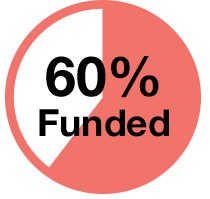
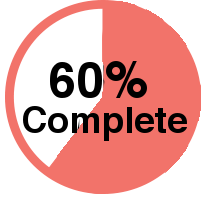
project-page styles

diff --git a/website/templates/includes/project-pane.html b/website/templates/includes/project-pane.html
@@ -1,8 +1,7 @@
 <style>
     .project-container {
-        background: #fff;
         margin-bottom: 30px;
-        height: 277px;
+        height: 495px;
         box-shadow: 1px 2px 3px #808080;
         -moz-box-shadow: 1px 2px 3px #808080;
         -webkit-box-shadow: 1px 2px 3px #808080;
@@ -18,17 +17,24 @@
         overflow: hidden;        
         position: relative;
     }
+    .project-image img{
+        height: 168px;
+        width: 300px;
+    }
+    
+    .project-cause {
+        margin: 10px 0px 0px 5px;
+        font-weight: bold;
+        color: #4E7284;
+    }
+    
     .project-text {
         width: 100%;
-        height: 277px;
-        background-color: rgba(0,0,0,.55);
-        color: #ffffff;
     }
     .project-name {
-        height:75px;
+        height:60px;
         font-family: 'Raleway', sans-serif;
         text-align: center;
-        color:#ffffff;
         padding-top: 10px;
         font-size: 2.2em;
         line-height: 1em;
@@ -44,65 +50,54 @@
         text-align: center;
     }
     
-    .project-text .org-bar {
-        margin: 5px auto 0px;
-        width: 250px;
+    .project-status {
+        margin-top: 10px;
     }
-    .project-text .org-bar a{
+
+    .project-status .pie-chart{
         margin-left: 5px;
-        color: #6dcff6;
-    }
-    
-    .project-text .row-fluid [class*="span"]:first-child {
-        margin-left: 0;
-    }
-    .metric-container {
-        width: 100%;
-        margin: 0 auto;
-        border-top: 2px solid #ffffff;
-    }
+        max-width: 100px;
         
-     .metric-container div:nth-of-type(n+2) {
+    }
     
-        border-left: 2px solid #ffffff; 
-    } 
+    .project-status needs {
+        margin-left: 10px;
+    }
+    
+    .project-location {
+        margin: 10px 0px 0px 10px;
+        font-weight: bold;
+        color: #0C3645;
+    }
       
 </style>
         
 <div class="span4">
-    <div class="project-container" type="project" project_id="{{ project.id }}">
-        <div class="projectimage" style="background-image: url('{{ project.media_url }}'); background-size: 300px 168px; background-repeat: no-repeat;"></div>
-            <div class="project-text">
-                <div class="project-cause">
-                    {{project.short_desc}}
+    <div project_id="{{ project.id }}" class="project-container" type="project" project_id="{{ project.id }}">
+        <div class="project-image">
+            <a href="/project/{{ project.id }}"><img src="{{ project.media_url }}"></a>
+        </div>
+        <div class="project-text">
+            <div class="project-cause">
+                <a href="/causes/{{cause.name}}"></a>Cause
+            </div>
+            <div class="project-name"><a href="/project/{{ project.id }}">{{project.name}}</a></div>
+            <div class="short_desc">{{project.short_desc}}</div>
+        </div>
+        <div class="row-fluid project-status">
+            <div class="span5 pie-chart">
+                <img src="http://127.0.0.1:8000/static/images/piechart.png"/>
+            </div>
+            <div class="span7 project-needs">
+                <strong>Needs</strong><br/>
+                <div class="need">
+                    CAD Design<br/>
+                    3D Printer Access<br/>
+                    Travel<br/>
+                    <a href="">See more...</a>
                 </div>
-                <div class="project-name">{{project.name}}</div>
-                <div class="short_desc">
-                    {{ project.short_desc }}
-                </div>
-                <div class="org-bar">
-                    <div class="icon-globe organization"></div><a href="">Organization</a>
-                    <div class="icon-map-marker location"></div><a href="">San Francisco, CA</a>
-                </div>
-                <div class="row-fluid" id="opportunityTypes">
-                    <div class="stat span3">
-                        <div id="num-following" class="text-center number">5</div>
-                        <div class="stat-label text-center">Donations</div>
-                    </div>
-                    <div class="stat span3">
-                        <div class="text-center number">13</div>
-                        <div class="stat-label text-center">Skills</div>
-                    </div>
-                    <div class="stat span3">
-                        <div class="text-center number">2</div>
-                        <div class="stat-label text-center">Equipment</div>
-                    </div>
-                    <div class="stat span3">
-                        <div class="text-center number">3</div>
-                        <div class="stat-label text-center">Knowledge</div>
-                    </div>
-                </div>
-            </div>    
-
+            </div>
+        </div>
+        <div class="project-location">Location</div>
     </div>
 </div>

diff --git a/website/templates/homepage.html b/website/templates/homepage.html
@@ -17,13 +17,14 @@
     .home_feature_slider {
         background: url('/static/images/home-banner.png');
         background-size: 1500px 500px;
+        margin: 0 0 20px;
         height: 375px;
     }
-    
-    .projects_row {
-        margin-top: 30px;
-    }
 
+    .home-search {
+        margin: 0 0 20px;
+    }
+    
     footer {
         margin-top: 30px;
     }
@@ -66,7 +67,20 @@
 {% endblock %}
 
 {% block maincontent %}
-    
+    <div class="row-fluid home-search">
+        <form action="" method="post">{% csrf_token %}
+                <input type="text"  name="search" id="search" value="Search..."onclick="if(this.value=='Search...'){this.value=''}"
+                onblur="if(this.value==''){this.value='Search...'}">
+                <select name="opp_type" id="opp_type">
+                <option value="">Search By:</option>
+                <option value="Skills">Skill set</option>
+                <option value="Knowledge">Knowledge</option>
+                <option value="Equipment">Equipment</option>
+                <option value="Money">Money</option>
+                </select>
+                <input type="submit" class="btn btn-primary" value="Search" style="margin-top:-10px;margin-left:10px;">
+        </form>
+    </div>
     <div class="row projects_row">
         {% for project in projects %}
             {% include "includes/project-pane.html" %}

diff --git a/website/models.py b/website/models.py
@@ -38,6 +38,8 @@ class OrganizationForm(ModelForm):
 class Project(models.Model):
     organization = models.ForeignKey(Organization)
     name = models.CharField(max_length=100, blank=True)
+    # add locate on city,country
+    # add cause
     status = models.CharField(max_length=100, choices=STATUS_CHOICES, default='unpublished')
     industry = models.CharField(max_length=100, blank=True)
     date_created = models.DateTimeField(auto_now_add=True)
